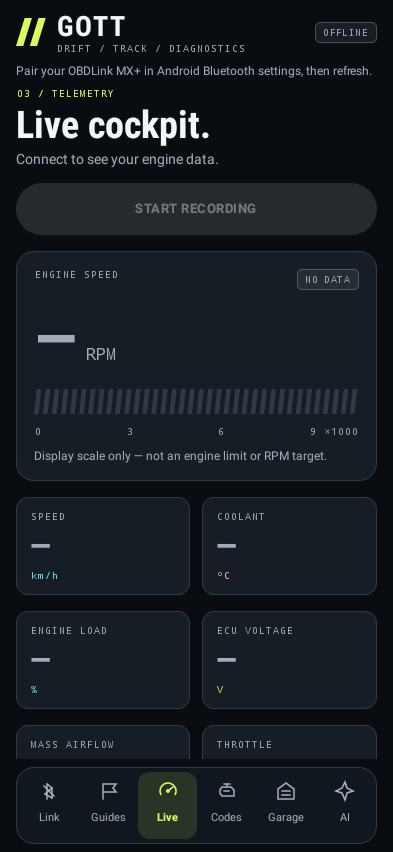
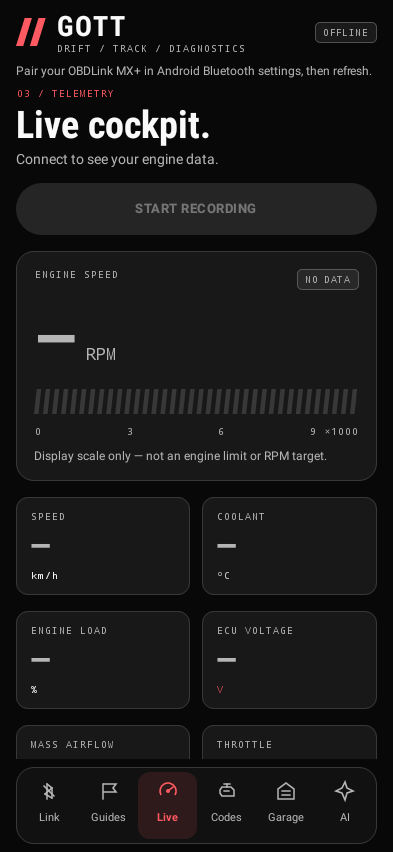
Apply red white and black motorsport theme

diff --git a/app/src/main/java/com/gottdiagnostics/RaceUi.kt b/app/src/main/java/com/gottdiagnostics/RaceUi.kt
@@ -30,21 +30,27 @@ import androidx.compose.ui.unit.dp
 import androidx.compose.ui.unit.sp
 import java.util.Locale
 
-internal val RaceLime = Color(0xFFD8FC60)
-internal val RaceCyan = Color(0xFF76DFEB)
-internal val RaceOrange = Color(0xFFFFBB82)
-internal val RaceMuted = Color(0xFFA3ADB9)
-internal val RacePanel = Color(0xFF171D24)
-internal val RaceLine = Color(0xFF303A45)
-internal val RaceRed = Color(0xFFFF9390)
+internal val RaceAccent = Color(0xFFFF5A61)
+internal val RaceWhite = Color(0xFFFFFFFF)
+internal val RaceSilver = Color(0xFFD0D0D0)
+internal val RaceMuted = Color(0xFFB5B5B5)
+internal val RacePanel = Color(0xFF181818)
+internal val RaceLine = Color(0xFF383838)
+internal val RaceRed = Color(0xFFFF858A)
 private val Condensed = FontFamily(Typeface.create("sans-serif-condensed", Typeface.BOLD))
 
 @Composable internal fun RaceTheme(content: @Composable () -> Unit) {
     MaterialTheme(
-        colorScheme = darkColorScheme(primary = RaceLime, onPrimary = Color(0xFF11170A), secondary = RaceCyan,
-            background = Color(0xFF090D12), surface = RacePanel, surfaceVariant = Color(0xFF202933),
-            onSurface = Color(0xFFF3F6F8), onBackground = Color(0xFFF3F6F8), onSurfaceVariant = RaceMuted,
-            outline = Color(0xFF727E8B), error = RaceRed),
+        colorScheme = darkColorScheme(primary = RaceAccent, onPrimary = Color(0xFF180405), secondary = RaceWhite,
+            background = Color(0xFF080808), surface = RacePanel, surfaceVariant = Color(0xFF242424),
+            onSurface = Color(0xFFFAFAFA), onBackground = Color(0xFFFAFAFA), onSurfaceVariant = RaceMuted,
+            outline = Color(0xFF808080), error = RaceRed, onError = Color.Black,
+            primaryContainer = Color(0xFF4A1116), onPrimaryContainer = RaceWhite,
+            onSecondary = Color.Black, secondaryContainer = Color(0xFF303030), onSecondaryContainer = RaceWhite,
+            tertiary = RaceSilver, onTertiary = Color.Black, tertiaryContainer = Color(0xFF303030), onTertiaryContainer = RaceWhite,
+            errorContainer = Color(0xFF4A1116), onErrorContainer = RaceWhite,
+            inverseSurface = RaceWhite, inverseOnSurface = Color.Black, inversePrimary = Color(0xFFB51F2B),
+            surfaceTint = RaceAccent),
         typography = Typography(
             headlineLarge = TextStyle(fontFamily = Condensed, fontSize = 38.sp, lineHeight = 42.sp, fontWeight = FontWeight.Bold, fontStyle = FontStyle.Italic),
             headlineSmall = TextStyle(fontFamily = Condensed, fontSize = 28.sp, lineHeight = 32.sp, fontWeight = FontWeight.Bold),
@@ -62,7 +68,7 @@ private val Condensed = FontFamily(Typeface.create("sans-serif-condensed", Typef
     )
 }
 
-@Composable internal fun RaceEyebrow(text: String, color: Color = RaceLime) {
+@Composable internal fun RaceEyebrow(text: String, color: Color = RaceAccent) {
     Text(text, color = color, style = MaterialTheme.typography.labelSmall)
 }
 
@@ -74,7 +80,7 @@ private val Condensed = FontFamily(Typeface.create("sans-serif-condensed", Typef
     }
 }
 
-@Composable internal fun RaceBadge(text: String, color: Color = RaceLime) {
+@Composable internal fun RaceBadge(text: String, color: Color = RaceAccent) {
     Surface(color = color.copy(alpha = 0.10f), shape = RoundedCornerShape(5.dp), border = BorderStroke(1.dp, color.copy(alpha = 0.35f))) {
         Text(text, Modifier.padding(horizontal = 8.dp, vertical = 5.dp), color = color,
             style = MaterialTheme.typography.labelSmall.copy(letterSpacing = 0.4.sp))
@@ -87,27 +93,27 @@ private val Condensed = FontFamily(Typeface.create("sans-serif-condensed", Typef
             for(i in 0..1) {
                 val x = i * size.width * 0.46f
                 val stripe = Path().apply { moveTo(x, size.height); lineTo(x + size.width * 0.29f, 0f); lineTo(x + size.width * 0.53f, 0f); lineTo(x + size.width * 0.24f, size.height); close() }
-                drawPath(stripe, RaceLime)
+                drawPath(stripe, RaceAccent)
             }
         }
         Column(Modifier.weight(1f)) {
             Text("GOTT", style = MaterialTheme.typography.headlineSmall.copy(fontStyle = FontStyle.Italic, letterSpacing = 2.sp))
             RaceEyebrow("DRIFT / TRACK / DIAGNOSTICS", RaceMuted)
         }
-        RaceBadge(if(state.monitoring) "REC" else if(state.connected) "LINKED" else "OFFLINE", if(state.connected) RaceLime else RaceMuted)
+        RaceBadge(if(state.monitoring) "REC" else if(state.connected) "LINKED" else "OFFLINE", if(state.connected) RaceAccent else RaceMuted)
     }
 }
 
 @Composable internal fun RaceNavigation(tab: Int, select: (Int) -> Unit) {
-    Surface(color = Color(0xFF11171E), shape = RoundedCornerShape(18.dp), border = BorderStroke(1.dp, RaceLine)) {
+    Surface(color = Color(0xFF111111), shape = RoundedCornerShape(18.dp), border = BorderStroke(1.dp, RaceLine)) {
         Row(Modifier.fillMaxWidth().padding(horizontal = 3.dp, vertical = 5.dp)) {
             listOf("Link", "Guides", "Live", "Codes", "Garage", "AI").forEachIndexed { index, label ->
                 val active = index == tab
-                Column(Modifier.weight(1f).clip(RoundedCornerShape(12.dp)).background(if(active) RaceLime.copy(alpha = 0.12f) else Color.Transparent)
+                Column(Modifier.weight(1f).clip(RoundedCornerShape(12.dp)).background(if(active) RaceAccent.copy(alpha = 0.12f) else Color.Transparent)
                     .semantics { selected = active }.clickable(role = Role.Tab) { select(index) }.padding(vertical = 9.dp),
                     horizontalAlignment = Alignment.CenterHorizontally, verticalArrangement = Arrangement.spacedBy(5.dp)) {
-                    NavigationGlyph(index, if(active) RaceLime else RaceMuted)
-                    Text(label, fontSize = 11.sp, fontWeight = if(active) FontWeight.Bold else FontWeight.Normal, color = if(active) RaceLime else RaceMuted)
+                    NavigationGlyph(index, if(active) RaceAccent else RaceMuted)
+                    Text(label, fontSize = 11.sp, fontWeight = if(active) FontWeight.Bold else FontWeight.Normal, color = if(active) RaceAccent else RaceMuted)
                 }
             }
         }
@@ -129,7 +135,7 @@ private val Condensed = FontFamily(Typeface.create("sans-serif-condensed", Typef
     }
 }
 
-internal fun vehicleAccent(id: String) = when(id) { "350z-2006" -> RaceCyan; "370z-2009" -> RaceOrange; else -> RaceLime }
+internal fun vehicleAccent(id: String) = when(id) { "350z-2006" -> RaceWhite; "370z-2009" -> RaceSilver; else -> RaceAccent }
 
 @Composable internal fun VehicleHero(vehicle: Vehicle, selected: Boolean = true, compact: Boolean = false, onClick: (() -> Unit)? = null, enabled: Boolean = true) {
     val accent = vehicleAccent(vehicle.id)
@@ -172,22 +178,22 @@ internal fun vehicleAccent(id: String) = when(id) { "350z-2006" -> RaceCyan; "37
             cubicTo(116*x,10*y,154*x,10*y,169*x,16*y); lineTo(211*x,43*y); lineTo(275*x,51*y)
             lineTo(299*x,61*y); lineTo(307*x,73*y); lineTo(292*x,77*y); lineTo(25*x,77*y); close()
         }
-        drawPath(body, Color(0xFF273540)); drawPath(body, accent, style=Stroke(1.5f*x))
+        drawPath(body, Color(0xFF303030)); drawPath(body, accent, style=Stroke(1.5f*x))
         val glass = Path().apply { moveTo(74*x,43*y); lineTo(109*x,23*y); lineTo(155*x,22*y); lineTo(190*x,43*y); close() }
-        drawPath(glass, Color(0xFF0B1118)); drawPath(glass, accent.copy(alpha=.4f), style=Stroke(x))
+        drawPath(glass, Color(0xFF0C0C0C)); drawPath(glass, accent.copy(alpha=.4f), style=Stroke(x))
         drawLine(accent.copy(alpha=.5f),Offset(135*x,24*y),Offset(145*x,43*y),x)
         drawLine(accent.copy(alpha=.6f),Offset(102*x,59*y),Offset(212*x,59*y),x)
-        drawLine(Color(0xFFF1F5D7),Offset(278*x,54*y),Offset(296*x,60*y),2*x)
+        drawLine(Color(0xFFFFFFFF),Offset(278*x,54*y),Offset(296*x,60*y),2*x)
         drawLine(RaceRed,Offset(19*x,52*y),Offset(29*x,52*y),2*x)
         for(cx in listOf(66f,251f)) {
-            drawCircle(Color(0xFF090D12),17*x,Offset(cx*x,73*y))
-            drawCircle(Color(0xFF768A9B),11*x,Offset(cx*x,73*y),style=Stroke(2*x))
+            drawCircle(Color(0xFF080808),17*x,Offset(cx*x,73*y))
+            drawCircle(Color(0xFF929292),11*x,Offset(cx*x,73*y),style=Stroke(2*x))
             drawCircle(accent,3*x,Offset(cx*x,73*y))
         }
     }
 }
 
-@Composable internal fun RacePanel(title: String, text: String, accent: Color = RaceCyan) {
+@Composable internal fun RacePanel(title: String, text: String, accent: Color = RaceWhite) {
     Surface(color = accent.copy(alpha = 0.06f), shape = RoundedCornerShape(12.dp), border = BorderStroke(1.dp, accent.copy(alpha = 0.24f))) {
         Column(Modifier.fillMaxWidth().padding(14.dp), verticalArrangement = Arrangement.spacedBy(7.dp)) {
             RaceEyebrow(title, accent)
@@ -198,11 +204,11 @@ internal fun vehicleAccent(id: String) = when(id) { "350z-2006" -> RaceCyan; "37
 
 @Composable internal fun GuideOption(guide: Guide, selected: Boolean, enabled: Boolean, onClick: () -> Unit) {
     Surface(Modifier.fillMaxWidth().clip(RoundedCornerShape(12.dp)).clickable(enabled = enabled, role = Role.RadioButton, onClick = onClick).semantics { this.selected = selected },
-        color = if(selected) RaceLime.copy(alpha=.08f) else RacePanel, shape = RoundedCornerShape(12.dp), border = BorderStroke(1.dp, if(selected) RaceLime else RaceLine)) {
+        color = if(selected) RaceAccent.copy(alpha=.08f) else RacePanel, shape = RoundedCornerShape(12.dp), border = BorderStroke(1.dp, if(selected) RaceAccent else RaceLine)) {
         Row(Modifier.padding(14.dp), verticalAlignment = Alignment.CenterVertically, horizontalArrangement = Arrangement.spacedBy(14.dp)) {
-            Text("0${guide.ordinal+1}", fontFamily = FontFamily.Monospace, fontSize = 23.sp, color = if(selected) RaceLime else RaceMuted)
+            Text("0${guide.ordinal+1}", fontFamily = FontFamily.Monospace, fontSize = 23.sp, color = if(selected) RaceAccent else RaceMuted)
             Column(Modifier.weight(1f)) { Text(guide.title, style=MaterialTheme.typography.titleMedium); RaceEyebrow(if(guide == Guide.CRUISE) "NORMAL ROAD LOAD" else "STATIONARY / NEUTRAL", RaceMuted) }
-            Text(if(selected) "●" else "○", color = if(selected) RaceLime else RaceMuted)
+            Text(if(selected) "●" else "○", color = if(selected) RaceAccent else RaceMuted)
         }
     }
 }
@@ -213,10 +219,10 @@ internal fun vehicleAccent(id: String) = when(id) { "350z-2006" -> RaceCyan; "37
         Column(Modifier.fillMaxWidth().padding(18.dp), verticalArrangement = Arrangement.spacedBy(12.dp)) {
             Row(Modifier.fillMaxWidth(), horizontalArrangement = Arrangement.SpaceBetween) {
                 RaceEyebrow("ENGINE SPEED", RaceMuted)
-                RaceBadge(if(rpm == null) "NO DATA" else if(state.monitoring) "RECORDING" else "LAST READING", if(state.monitoring) RaceLime else RaceMuted)
+                RaceBadge(if(rpm == null) "NO DATA" else if(state.monitoring) "RECORDING" else "LAST READING", if(state.monitoring) RaceAccent else RaceMuted)
             }
             Row(verticalAlignment = Alignment.Bottom, horizontalArrangement=Arrangement.spacedBy(10.dp)) {
-                Text(rpm?.let { String.format(Locale.US,"%.0f",it) } ?: "—", style=MaterialTheme.typography.headlineLarge.copy(fontSize=64.sp,lineHeight=68.sp), color=if(rpm != null) RaceLime else RaceMuted)
+                Text(rpm?.let { String.format(Locale.US,"%.0f",it) } ?: "—", style=MaterialTheme.typography.headlineLarge.copy(fontSize=64.sp,lineHeight=68.sp), color=if(rpm != null) RaceAccent else RaceMuted)
                 Text("RPM", Modifier.padding(bottom=10.dp), color=RaceMuted, fontFamily=FontFamily.Monospace)
             }
             Canvas(Modifier.fillMaxWidth().height(25.dp)) {
@@ -224,7 +230,7 @@ internal fun vehicleAccent(id: String) = when(id) { "350z-2006" -> RaceCyan; "37
                 val step = size.width / 36f
                 for(i in 0..35) {
                     val bar = Path().apply { moveTo(i*step,size.height); lineTo(i*step+step*.3f,0f); lineTo((i+1)*step-step*.2f,0f); lineTo((i+1)*step-step*.5f,size.height); close() }
-                    drawPath(bar,if(rpm != null && i < fraction*36) RaceLime else RaceLine)
+                    drawPath(bar,if(rpm != null && i < fraction*36) RaceAccent else RaceLine)
                 }
             }
             Row(Modifier.fillMaxWidth(), horizontalArrangement=Arrangement.SpaceBetween) { listOf("0","3","6","9 ×1000").forEach { RaceEyebrow(it,RaceMuted) } }
@@ -234,7 +240,7 @@ internal fun vehicleAccent(id: String) = when(id) { "350z-2006" -> RaceCyan; "37
 }
 
 @Composable internal fun MetricTile(pid: Pid, value: Double?, modifier: Modifier = Modifier) {
-    val accent = when(pid.code) { "05" -> if(value != null && value > 110) RaceRed else RaceOrange; "42" -> RaceLime; else -> RaceCyan }
+    val accent = when(pid.code) { "05" -> if(value != null && value > 110) RaceRed else RaceSilver; "42" -> RaceAccent; else -> RaceWhite }
     Surface(modifier=modifier,shape=RoundedCornerShape(12.dp),color=RacePanel,border=BorderStroke(1.dp,RaceLine)) {
         Column(Modifier.padding(14.dp),verticalArrangement=Arrangement.spacedBy(5.dp)) {
             RaceEyebrow(pid.name.uppercase(Locale.US),RaceMuted)

diff --git a/app/src/main/java/com/gottdiagnostics/MainActivity.kt b/app/src/main/java/com/gottdiagnostics/MainActivity.kt
@@ -57,7 +57,7 @@ class MainActivity: ComponentActivity() {
             Row(Modifier.fillMaxWidth().padding(bottom = 10.dp), verticalAlignment = Alignment.CenterVertically, horizontalArrangement = Arrangement.spacedBy(10.dp)) {
                 Column(Modifier.weight(1f)) {
                     Text(state.status, style = MaterialTheme.typography.bodySmall, color = RaceMuted)
-                    if(state.session != null) RaceEyebrow("${state.samples} SAMPLES / LOCAL SESSION", RaceCyan)
+                    if(state.session != null) RaceEyebrow("${state.samples} SAMPLES / LOCAL SESSION", RaceWhite)
                 }
                 if(state.monitoring) FilledTonalButton(onClick = model::stopMonitoring, colors = ButtonDefaults.filledTonalButtonColors(containerColor = RaceRed, contentColor = Color(0xFF1B0B0B))) { Text("STOP") }
             }
@@ -87,14 +87,14 @@ class MainActivity: ComponentActivity() {
                         Text("Neutral RPM is not a substitute for road load. These are conservative collection guides, not Nissan factory test procedures.", color = RaceMuted)
                         Guide.entries.forEach { item -> GuideOption(item, guide == item, !state.busy) { guide = item } }
                         Text(guide.title, style = MaterialTheme.typography.titleLarge)
-                        RacePanel("01 / SET UP", guide.instructions, RaceLime)
+                        RacePanel("01 / SET UP", guide.instructions, RaceAccent)
                         RacePanel("02 / WHAT YOU WILL LEARN", guide.purpose)
                         RacePanel("STOP CONDITIONS", guide.abort, RaceRed)
                         Text("Required channels: " + guide.required.joinToString { code -> Obd.pids.first { it.code == code }.name }, style = MaterialTheme.typography.bodySmall, color = RaceMuted)
                         Row { Checkbox(checked = ready, onCheckedChange = { ready = it }, enabled = !state.busy); Text("I am parked, have read the steps and stop conditions, and will not handle the phone while driving.", Modifier.padding(top = 8.dp)) }
                         Button(onClick = { model.monitor(guide); ready = false }, enabled = ready && state.connected && !state.busy && !state.aiBusy, modifier = Modifier.fillMaxWidth().heightIn(min = 52.dp)) { Text("START GUIDED RECORDING") }
                         state.guidance?.let { progress ->
-                            RacePanel(if(progress.complete) "CAPTURE COMPLETE" else "SESSION PROGRESS", "${state.guide?.title ?: "Recording"}\n${progress.text}\nApproximate qualifying coverage: ${progress.seconds} s • ${progress.samples} readings", if(progress.complete) RaceLime else RaceCyan)
+                            RacePanel(if(progress.complete) "CAPTURE COMPLETE" else "SESSION PROGRESS", "${state.guide?.title ?: "Recording"}\n${progress.text}\nApproximate qualifying coverage: ${progress.seconds} s • ${progress.samples} readings", if(progress.complete) RaceAccent else RaceWhite)
                         }
                         if(state.vehicleId == "350z-2003") Text("2003 DE: unknown injectors and calibration. Identify them and verify matching calibration before high-load fueling evaluation.", color = MaterialTheme.colorScheme.error)
                         Text("High-load / dyno testing", style = MaterialTheme.typography.titleMedium)
@@ -111,7 +111,7 @@ class MainActivity: ComponentActivity() {
                             }
                         }
                         Text("Keep the app open. Values are sequential samples. — means unavailable; after stopping, the display retains the last reading.", style = MaterialTheme.typography.bodySmall, color = RaceMuted)
-                        RaceEyebrow("ENGINE CHANNELS", RaceCyan)
+                        RaceEyebrow("ENGINE CHANNELS", RaceWhite)
                         Surface(shape = RoundedCornerShape(14.dp), color = RacePanel, border = BorderStroke(1.dp, RaceLine)) {
                             Column(Modifier.padding(horizontal = 14.dp)) {
                                 Obd.pids.filter { it.code !in headlinePids && it.code != "0C" }.forEach { pid ->
@@ -124,7 +124,7 @@ class MainActivity: ComponentActivity() {
                             }
                         }
                         Text("Fuel-system status: 1 cold/open loop, 2 closed loop, 4 load/decel open loop, 8 fault open loop, 16 closed loop with fault. Commanded equivalence ratio is not measured AFR.", style = MaterialTheme.typography.bodySmall, color = RaceMuted)
-                        RaceEyebrow("THRESHOLD WATCH", RaceOrange)
+                        RaceEyebrow("THRESHOLD WATCH", RaceSilver)
                         Text("Heuristic thresholds; consider engine state, closed-loop status and vehicle specifications.")
                         if(state.alerts.isEmpty()) Text(if(state.samples == 0) "Start recording to evaluate readings." else "No threshold alerts in the latest sample.")
                         state.alerts.forEach { RacePanel("CHECK THIS READING", it, RaceRed) }
@@ -133,7 +133,7 @@ class MainActivity: ComponentActivity() {
                         RaceHeading("04 / FAULT MEMORY", "Decode the warning.", "Stored and pending powertrain trouble codes.")
                         RacePanel("BEFORE YOU SCAN", "Stop recording first. Trouble codes and recorded readings stay in the same session for AI analysis.")
                         Button(onClick = model::scan, enabled = state.connected && !state.busy && !state.aiBusy, modifier = Modifier.fillMaxWidth().heightIn(min = 52.dp)) { Text("SCAN TROUBLE CODES") }
-                        state.codes.forEach { code -> RacePanel("ECU REPORTED", code, RaceOrange) }
+                        state.codes.forEach { code -> RacePanel("ECU REPORTED", code, RaceSilver) }
                         if(state.codes.isEmpty()) RacePanel("NO CODES DISPLAYED", "Use Scan to read the ECU. An empty list before a scan does not establish a healthy vehicle.", RaceMuted)
                         Text("A DTC identifies a detected condition, not necessarily a failed part. No codes are cleared.")
                         Text("Service, relearns & performance tuning", style = MaterialTheme.typography.titleLarge)
@@ -160,20 +160,20 @@ class MainActivity: ComponentActivity() {
                     }
                     5 -> {
                         RaceHeading("06 / AI ANALYSIS", "Your second opinion.", "Turn a session into your next diagnostic step.")
-                        RaceBadge(if(state.hasApiKey) "PERSONAL API / KEY SAVED" else "PERSONAL API / SETUP NEEDED", RaceCyan)
+                        RaceBadge(if(state.hasApiKey) "PERSONAL API / KEY SAVED" else "PERSONAL API / SETUP NEEDED", RaceWhite)
                         RacePanel("YOU STAY IN CONTROL", "Park and stop recording before analysis. Data goes directly to OpenAI only after your confirmation. API charges are separate from ChatGPT subscriptions. AI advice cannot change ECU settings.")
                         OutlinedTextField(value = state.question, onValueChange = model::question, label = { Text("Question or follow-up (optional)") }, minLines = 2, modifier = Modifier.fillMaxWidth(), enabled = !state.aiBusy)
                         Button(onClick = model::prepareAnalysis, enabled = !state.busy && !state.aiBusy && state.hasApiKey, modifier = Modifier.fillMaxWidth().heightIn(min = 52.dp)) { Text("REVIEW DATA & ANALYZE") }
                         if(state.aiBusy) { LinearProgressIndicator(Modifier.fillMaxWidth()); Text("Preparing / requesting analysis…"); OutlinedButton(onClick = model::cancelAnalysis) { Text("Cancel") } }
                         if(state.aiError.isNotEmpty()) Text(state.aiError)
                         if(state.analysisSession.isNotEmpty()) Text("Analysis of: ${state.analysisSession}", style = MaterialTheme.typography.bodySmall)
-                        state.conversation.forEachIndexed { index, (question, answer) -> Surface(Modifier.fillMaxWidth(), color = RacePanel, shape = RoundedCornerShape(14.dp), border = BorderStroke(1.dp, RaceCyan.copy(alpha = 0.35f))) { Column(Modifier.padding(18.dp), verticalArrangement = Arrangement.spacedBy(12.dp)) {
-                            RaceEyebrow("ANALYSIS / ${index + 1}", RaceCyan)
+                        state.conversation.forEachIndexed { index, (question, answer) -> Surface(Modifier.fillMaxWidth(), color = RacePanel, shape = RoundedCornerShape(14.dp), border = BorderStroke(1.dp, RaceWhite.copy(alpha = 0.35f))) { Column(Modifier.padding(18.dp), verticalArrangement = Arrangement.spacedBy(12.dp)) {
+                            RaceEyebrow("ANALYSIS / ${index + 1}", RaceWhite)
                             Text(if(question.isBlank()) "Diagnostic assessment" else question, style = MaterialTheme.typography.titleMedium)
                             SelectionContainer { Text(answer) }
                         } } }
                         HorizontalDivider(color = RaceLine)
-                        RaceEyebrow("PERSONAL API / SETTINGS", RaceCyan)
+                        RaceEyebrow("PERSONAL API / SETTINGS", RaceWhite)
                         Text(if(state.hasApiKey) "A key is saved, encrypted using Android Keystore. It is excluded from logs, exports and backups." else "Enter your OpenAI API key on this phone. Do not send it in chat. Enable API billing and set a spending limit in your OpenAI account.")
                         OutlinedTextField(value = apiKey, onValueChange = { apiKey = it }, label = { Text("OpenAI API key") }, visualTransformation = PasswordVisualTransformation(), singleLine = true, modifier = Modifier.fillMaxWidth(), enabled = !state.aiBusy)
                         Row(horizontalArrangement = Arrangement.spacedBy(8.dp)) {

diff --git a/README.md b/README.md
@@ -1,14 +1,14 @@
-# Gott Diagnostics 1.2
+# Gott Diagnostics 1.3
 
 Native Kotlin / Jetpack Compose Android app for an OBDLink MX+ using Bluetooth Classic SPP. Android 8.0+ (API 26). Includes guided OBD recording and direct, owner-approved OpenAI analysis inside the app.
 
 ## Install
 
-Download `gott-diagnostics-debug.apk` from the GitHub release assets and open it on your phone. Allow installation from the file-opening app. These are development builds, not production-signed releases. The GitHub runner generates a debug signing key for each build, so Android may reject an in-place update. If an earlier version is installed, export any logs you want to keep before uninstalling it and installing 1.2. Uninstalling clears app data. The API key must be entered again after reinstalling. The release's SHA256SUMS.txt identifies the downloadable APK; a local build has a different signing key/checksum.
+Download `gott-diagnostics-debug.apk` from the GitHub release assets and open it on your phone. Allow installation from the file-opening app. These are development builds, not production-signed releases. The GitHub runner generates a debug signing key for each build, so Android may reject an in-place update. If an earlier version is installed, export any logs you want to keep before uninstalling it and installing 1.3. Uninstalling clears app data. The API key must be entered again after reinstalling. The release's SHA256SUMS.txt identifies the downloadable APK; a local build has a different signing key/checksum.
 
 ## Motorsport interface
 
-Version 1.2 adds a charcoal, acid-lime and cyan design with condensed headings, stylized coupe artwork, distinct garage cards, a segmented RPM display and a two-column live telemetry dashboard. All six destinations remain visible in the bottom navigation: Link, Guides, Live, Codes, Garage and AI. Scroll position resets when switching sections, and the Stop recording button stays above the content while recording.
+Version 1.3 adds a red, white and black design with condensed headings, stylized coupe artwork, distinct garage cards, a segmented RPM display and a two-column live telemetry dashboard. All six destinations remain visible in the bottom navigation: Link, Guides, Live, Codes, Garage and AI. Scroll position resets when switching sections, and the Stop recording button stays above the content while recording.
 
 The RPM display is a visual scale, not an ECU redline or a recommended target. Offline/missing readings show dashes and NO DATA; stopped readings are labeled LAST READING. Vehicle illustrations are stylized, not representations of the owner's exact body modifications. The engine protocols, guide conditions, privacy controls and API behavior are unchanged.
 

diff --git a/BUILD_VALIDATION.md b/BUILD_VALIDATION.md
@@ -1,4 +1,4 @@
-# Version 1.2 cloud validation
+# Version 1.3 cloud validation
 
 Validated 2026-09-30 using `./scripts/build-cloud.sh --rerun-tasks`.
 
@@ -7,7 +7,7 @@ Validated 2026-09-30 using `./scripts/build-cloud.sh --rerun-tasks`.
 - `lintDebug`: no issues found.
 - APK signature and zip alignment: verified.
 - Local APK size: 8,847,588 bytes.
[2 lines of base64/hex data omitted]
 - JDK 17.0.16, Gradle 8.9, AGP 8.7.3, Kotlin 2.0.21, SDK/build tools 35.
 
 Two additional local UI checks used a temporary Robolectric 4.14.1 native-graphics/Compose harness on Android API 34, at 393×852 and 320×640 dp. Navigation to all six destinations was verified at standard size; the narrow check verified bottom navigation and the offline cockpit. Actual Android view drawing was captured and inspected. The AI screen's screenshot protection was retained; its heading/navigation was checked without capturing it. These host-only checks and dependencies are not part of the shipped app or standard CI. Captures are in docs/screenshots.
